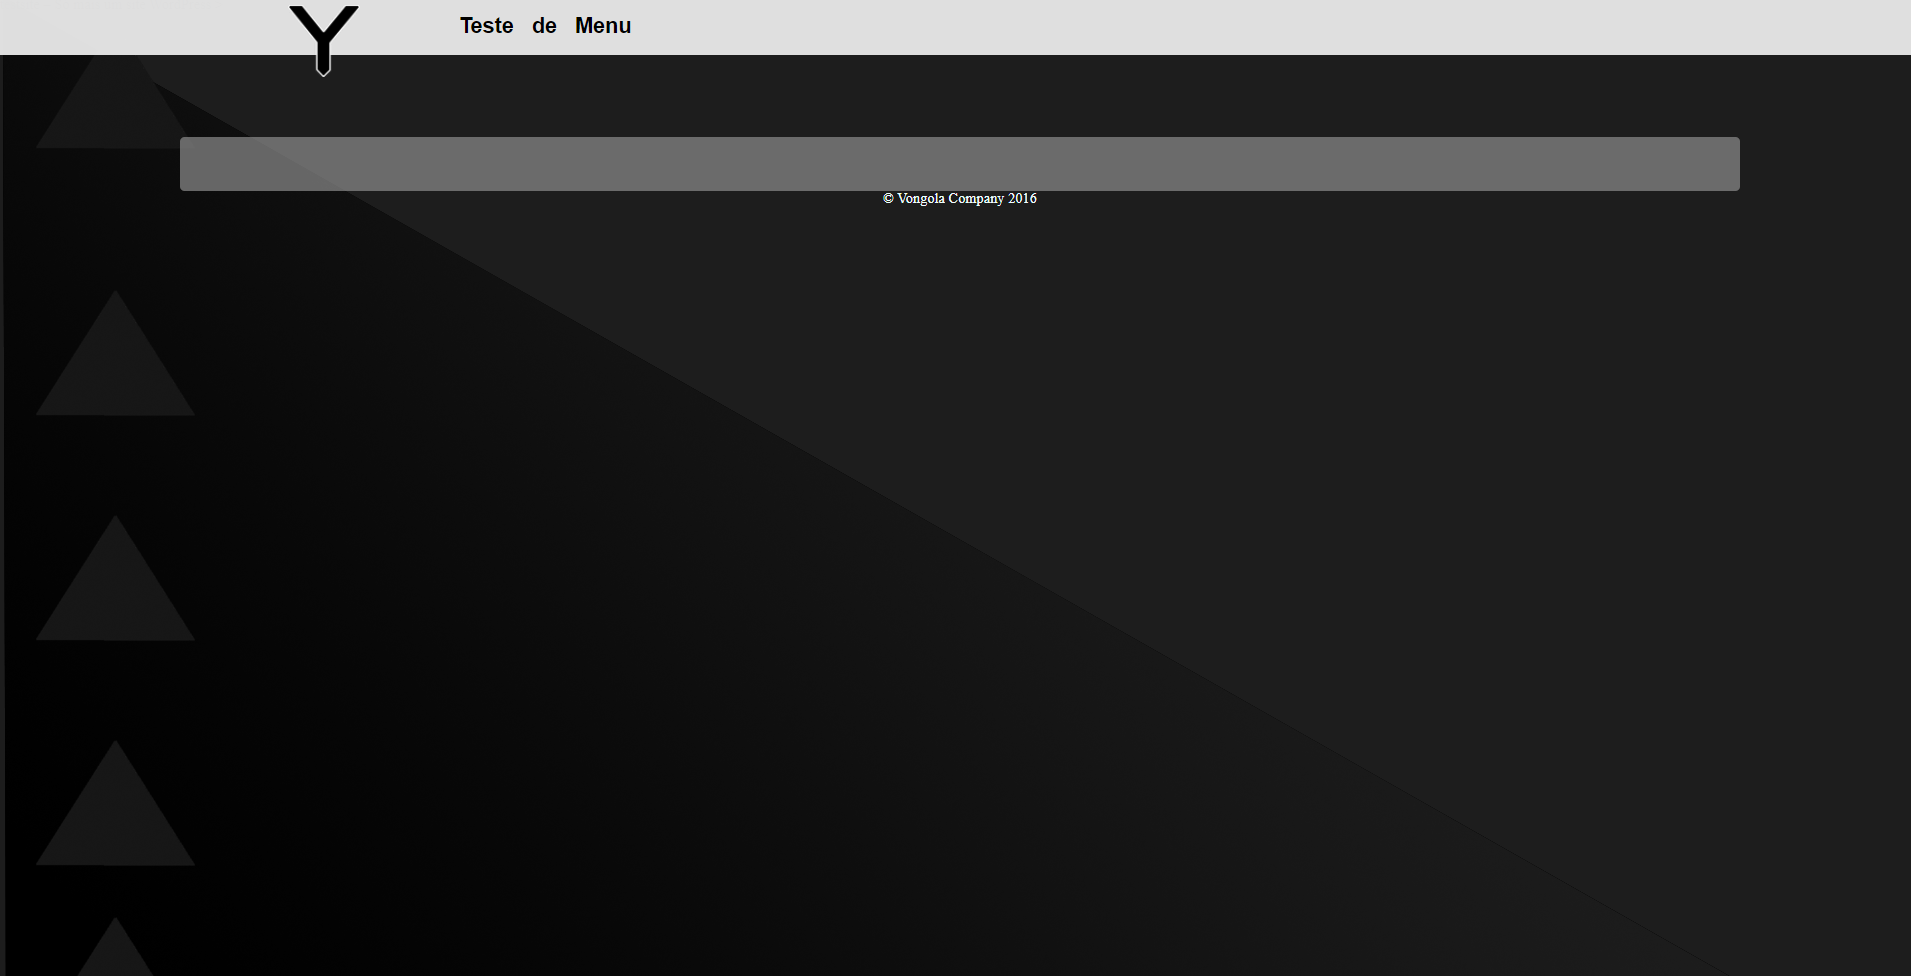
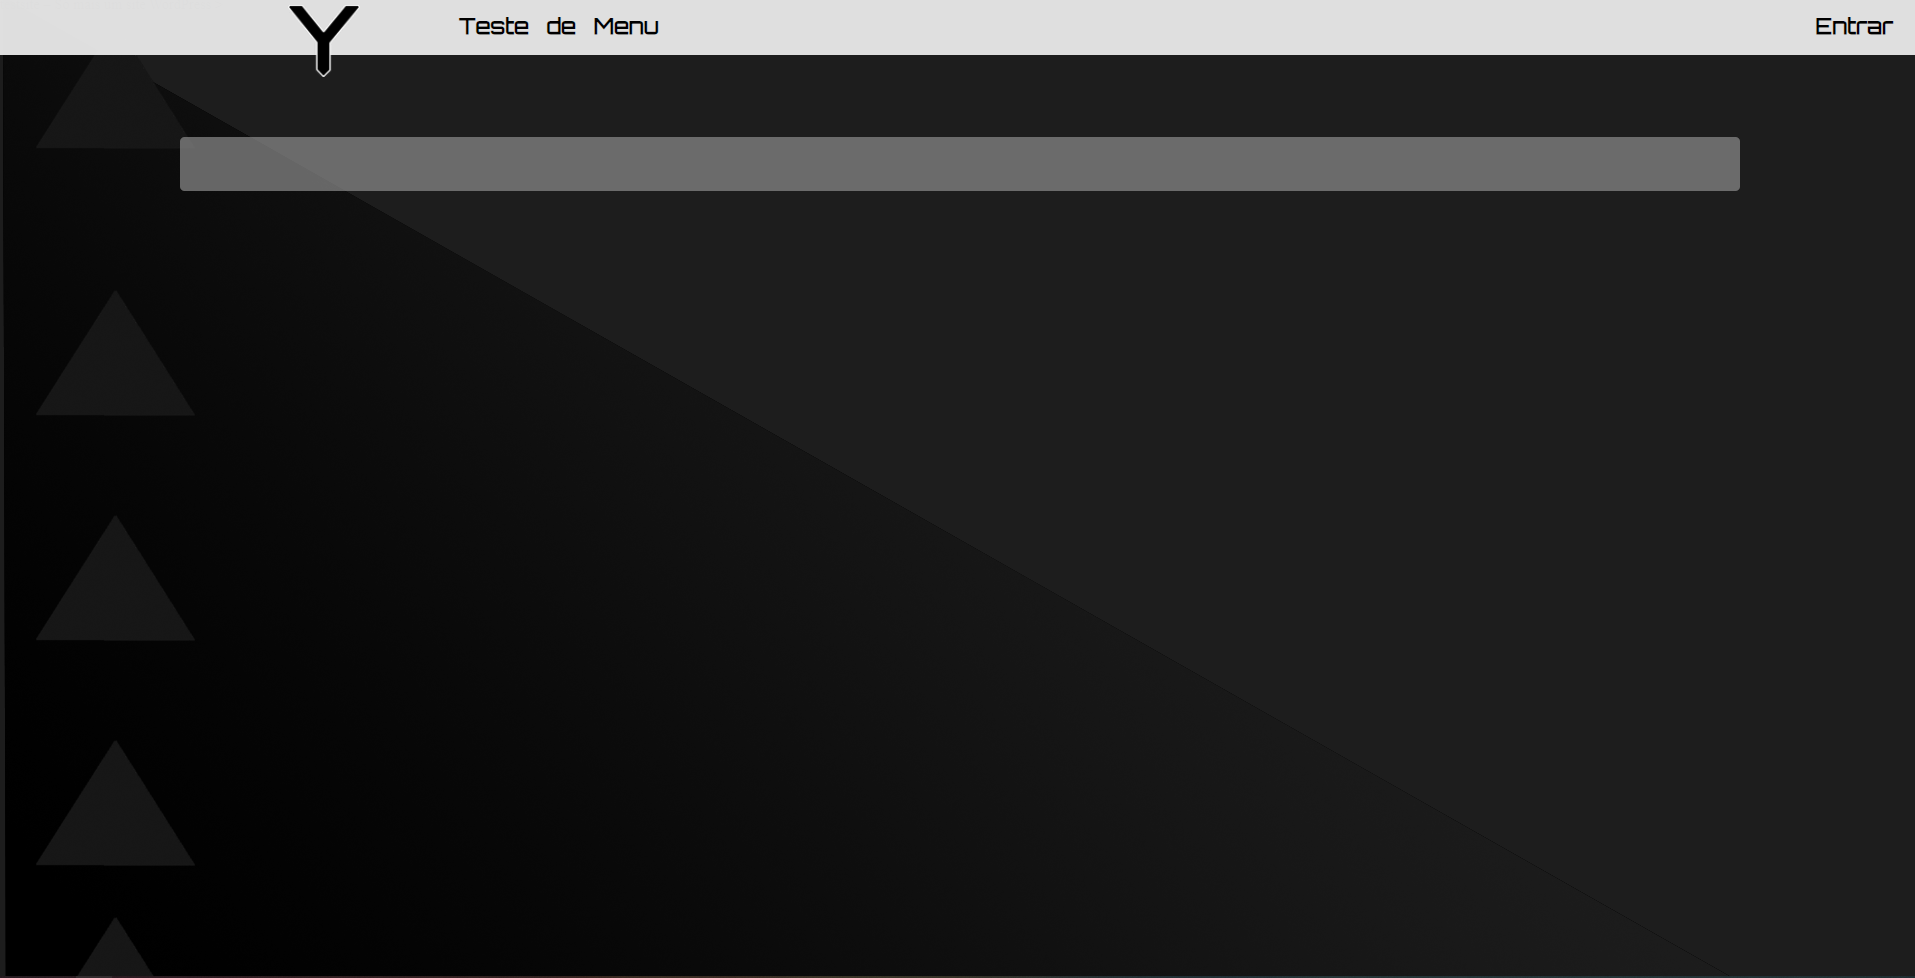
changes 09/11

diff --git a/css/Vongola.css b/css/Vongola.css
@@ -124,4 +124,25 @@ h2 {
     border: solid black;
     transition: border 0.05s
 }
-
+.user {
+    float: right;
+}
+.login-tab {
+    display: none;
+    position: relative;
+    width: 20rem;
+    height: 20rem;
+    
+}
+.login {
+    font-size: 1.5rem;
+    height: 4rem;
+    text-align: center;
+    font-family: 'Orbitron', sans-serif;
+    font-weight: bold;
+    width:55px;
+    text-decoration: none;
+    padding: 10px;
+    text-align: center;
+    color: black;
+}

diff --git a/js/navbar.js b/js/navbar.js
@@ -4,7 +4,7 @@ jQuery(document).ready(function () {
     });
 });
 jQuery(document).ready(function() {
-   jQuery(".photo-user").click(function(){
-        jQuery(".login").slideDown();
+   jQuery(".login").click(function(){
+        jQuery(".login-tab").slideToggle();
   });
 });

diff --git a/header.php b/header.php
@@ -28,13 +28,14 @@
                     
                     <div class="user">
                         <p><!--Nome de Usuario entrará aqui--></p>
-                        <a href="javascript:void(0);" class="photo-user" ><img src="<??>"></a> 
-                        <div class="login">
+                        <a class="login" href="javascript:void(0);">Entrar</a>
+                        <div class="login-tab">
                             <form action="login-forms/sigin.php" method="post" >
-                                <input type="text" name="user" placeholder="Username">
-                                <input type="text" name="pass" placeholder="Senha">
-                                <button type="submit" name="login-submit">Login</button>
-                                <button type="submit" name="signin-submit">Sign in</button>
+                                <a class="photo-user" ><img src="<??>"></a> 
+                                <li><input type="text" name="user email" placeholder="Username"></li>
+                                <li><input type="text" name="pass" placeholder="Senha"></li>
+                                <li><button type="submit" name="login-submit">Login</button></li>
+                                <li><button type="submit" name="signin-submit">Sign in</button></li>
                             </form>
                         </div>
 

diff --git a/login-forms/signin.php b/login-forms/signin.php
@@ -6,8 +6,6 @@
         $username = $_POST['user'];
         $email = $_POST['email'];
         $password = $_POST['pass'];
-        $passRepeat = $_POST['pass-repeat'];
-        
-        
-                
-    }      
+        $passRepeat = $_POST['pass-repeat'];        
+    } 
+?>

diff --git a/login-forms/login.php b/login-forms/login.php
@@ -1,0 +1,9 @@
+  
+<?php 
+
+    if(isset($_POST['login-submit'])) {
+        require 'db-vongola.php';      
+        $username = $_POST['user'];
+        $password = $_POST['pass'];        
+    } 
+?>
